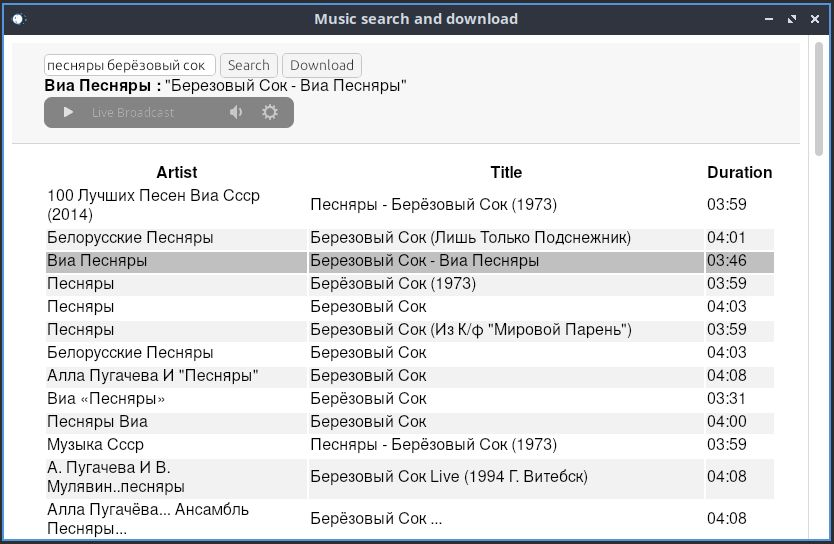
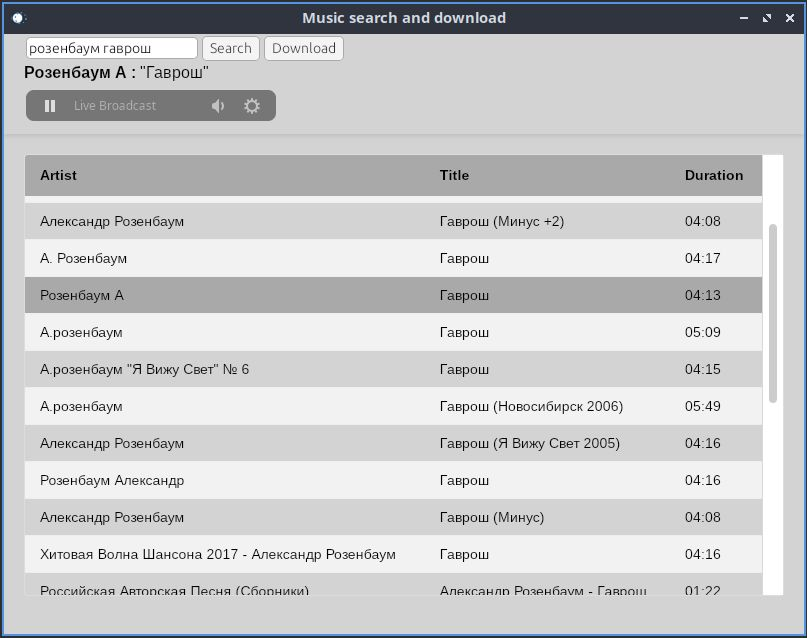
updated css style

diff --git a/src/wwwroot/css/app.css b/src/wwwroot/css/app.css
@@ -1,70 +1,75 @@
 @import url('open-iconic/font/css/open-iconic-bootstrap.min.css');
 
-html, body {
-    font-family: 'Helvetica Neue', Helvetica, Arial, sans-serif;
+body {
+    margin: 0;
+    padding: 0;
+    font-family: Arial, sans-serif;
+    background-color: lightgray;
 }
 
-a, .btn-link {
-    color: #0366d6;
-}
-
-.btn-primary {
-    color: #fff;
-    background-color: #1b6ec2;
-    border-color: #1861ac;
-}
-
-app {
-    position: relative;
-    display: flex;
-    flex-direction: column;
-}
-
-.top-row {
+.header {
+    position: fixed;
+    top: 0;
+    left: 0;
+    width: 100%;
     height: 100px;
+    z-index: 1000;
+    box-shadow: 0 2px 5px rgba(0, 0, 0, 0.1);
+    padding: 0 20px;
+    box-sizing: border-box;
+}
+
+.caption {
+    height:30px;
     display: flex;
     align-items: center;
-    z-index: 10;
-}
-
-.main {
-    flex: 1;
-}
-
-.main .top-row {
-    background-color: #f7f7f7;
-    border-bottom: 1px solid #d6d5d5;
-    justify-content: flex-start;
-}
-
-.main .top-row > a, .main .top-row .btn-link {
-    white-space: nowrap;
-    margin-left: 1.5rem;
-}
-
-.main .top-row a:first-child {
-    overflow: hidden;
+    text-wrap:nowrap;
     text-overflow: ellipsis;
+    overflow:hidden;
 }
 
-tr:nth-child(even) {
+.main-content {
+    margin-top: 100px;
+    padding: 20px;
+    overflow-x: auto; 
+}
+
+.table-container {
+    max-height: calc(100vh - 160px);
+    overflow-y: auto; 
+    border: 1px solid #ddd;
+    border-radius: 4px;
+}
+
+.data-table {
+    width: 100%;
+    border-collapse: collapse;
+    font-size: 14px;
+}
+
+.data-table thead {
+    position: sticky;
+    top: 0; 
+    z-index: 100;
+}
+
+.data-table th {
+    background-color: darkgray;
+    padding: 12px 15px;
+    text-align: left;
+    font-weight: bold;
+    border-bottom: 2px solid #ddd;
+    white-space: nowrap;
+}
+
+.data-table td {
+    padding: 10px 15px;
+    border-bottom: 1px solid #eee;
+    vertical-align: top;
+}
+
+.data-table tr:nth-child(even) {
   background-color: #f2f2f2;
-}
-
-.content {
-    padding-top: 1.1rem;
-}
-
-.valid.modified:not([type=checkbox]) {
-    outline: 1px solid #26b050;
-}
-
-.invalid {
-    outline: 1px solid red;
-}
-
-.validation-message {
-    color: red;
 }
 
 #blazor-error-ui {
@@ -84,51 +89,4 @@ tr:nth-child(even) {
     position: absolute;
     right: 0.75rem;
     top: 0.5rem;
-}
-
-@media (max-width: 767.98px) {
-    .main .top-row:not(.auth) {
-        display: none;
-    }
-
-    .main .top-row.auth {
-        justify-content: space-between;
-    }
-
-    .main .top-row a, .main .top-row .btn-link {
-        margin-left: 0;
-    }
-}
-
-@media (min-width: 768px) {
-    app {
-        flex-direction: row;
-    }
-
-    .sidebar {
-        width: 250px;
-        height: 100vh;
-        position: sticky;
-        top: 0;
-    }
-
-    .main .top-row {
-        position: sticky;
-        top: 0;
-        z-index: 1;
-    }
-
-    .main > div {
-        padding-left: 2rem !important;
-        padding-right: 1.5rem !important;
-    }
-
-    .navbar-toggler {
-        display: none;
-    }
-
-    .sidebar .collapse {
-        /* Never collapse the sidebar for wide screens */
-        display: block;
-    }
 }

diff --git a/src/Program.cs b/src/Program.cs
@@ -1,4 +1,5 @@
 using System;
+using System.Drawing;
 using System.Net.Http;
 using Microsoft.Extensions.Configuration;
 using Microsoft.Extensions.DependencyInjection;
@@ -34,6 +35,7 @@ namespace MusicSearchDownload
             // customize window
             app.MainWindow
                 .SetIconFile("favicon.ico")
+                .SetSize(new Size(800, 600))
                 .SetTitle("Music search and download");
             app.MainWindow.RegisterWindowClosingHandler((sender, args) =>
             {
